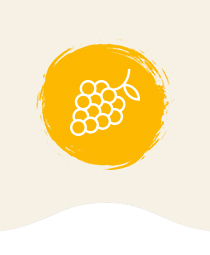
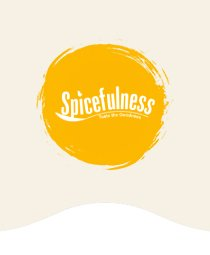
major updates

diff --git a/index.html b/index.html
@@ -6,7 +6,7 @@
 		<!-- Basic Page Needs -->
 		<meta charset="utf-8">
 		<meta http-equiv="X-UA-Compatible" content="IE=edge">
-		<title>FreshMart - Organic, Fresh Food, Farm Store HTML Template</title>
+		<title>Munnar Tea House Trivandrum</title>
 		
 		<meta name="keywords" content="Organic, Fresh Food, Farm Store">
 		<meta name="description" content="FreshMart - Organic, Fresh Food, Farm Store HTML Template">
@@ -375,8 +375,9 @@
 						<div class="row">
 							<div class="col-xs-12 col-sm-12 col-md-12 col-lg-12">
 								<div class="intro-header">
-									<h3>Welcome To FreshMart</h3>
-									<p>Lorem ipsum dolor sit amet, consectetur adipiscing elit, sed do eiusmod tempor incididunt ut labore et dolore magna aliqua. Ut enim ad minim veniam, quis nostrud exercitation ullamco laboris nisi ut aliquip ex ea commodo consequat</p>
+									<h3>Welcome To Munnar Tea House & Spicefulness</h3>
+									<p>Nestled in the misty embrace of the Western Ghats, we bring you the finest teas and spices, handpicked from the heart of nature. At Munnar Tea House and Spicefulness, we celebrate the harmony between the land and its rich flavors, delivering the essence of the mountains directly to your home.
+</p>
 								</div>
 							</div>
 							
@@ -427,7 +428,7 @@
 				<!-- Product - Deals Of The Day -->
 				<div class="section products-block deals-of-day show-hover nav-color layout-2">
 					<div class="block-title">
-						<h2 class="title">Deals of <span>The Day</span></h2>
+						<h2 class="title">Best Deals<span>For You</span></h2>
 						<div class="sub-title">Lorem ipsum dolor sit amet consectetur adipiscing elit eiusmod tempor</div>
 					</div>
 					
@@ -3067,50 +3068,9 @@
 									</div>
 								</div>
 							
-								<div class="item">
-									<img src="img/product/category-2.jpg" alt="Category 2">
-									<div class="title">Vegetable</div>
-									<div class="category-products">
-										<ul>
-											<li><a href="#">Beans & Brinjals</a></li>
-											<li><a href="#">Broccoli & Cauliflower</a></li>
-											<li><a href="#">Chilies, Garlic & Ginger</a></li>
-											<li><a href="#">Root Vegetables</a></li>
-											<li><a href="#" class="color">View All</a></li>
-										</ul>
-									</div>
-								</div>
-							
-								<div class="item">
-									<img src="img/product/category-3.jpg" alt="Category 3">
-									<div class="title">Juices</div>
-									<div class="category-products">
-										<ul>
-											<li><a href="#">Orange Juices</a></li>
-											<li><a href="#">Apple Juices</a></li>
-											<li><a href="#">Strawberry Juices</a></li>
-											<li><a href="#">Pomegranate Juices</a></li>
-											<li><a href="#" class="color">View All</a></li>
-										</ul>
-									</div>
-								</div>
-							
-								<div class="item">
-									<img src="img/product/category-4.jpg" alt="Category 4">
-									<div class="title">Tea And Coffee</div>
-									<div class="category-products">
-										<ul>
-											<li><a href="#">Organic Tea</a></li>
-											<li><a href="#">Masala Teas</a></li>
-											<li><a href="#">Flavored Tea</a></li>
-											<li><a href="#">Coffee</a></li>
-											<li><a href="#" class="color">View All</a></li>
-										</ul>
-									</div>
-								</div>
 								
 								<div class="item">
-									<img src="img/product/category-5.jpg" alt="Category 5">
+									<img src="img/product/category-2.jpg" alt="Category 5">
 									<div class="title">Bread</div>
 									<div class="category-products">
 										<ul>
@@ -3125,77 +3085,7 @@
 							</div>
 						</div>
 					</div>
-				</div>
-				
-				
-				<!-- Partners -->
-				<div class="section partners">
-					<div class="block-content">
-						<div class="container">
-							<div class="partners-wrap owl-theme owl-carousel">
-								<a href="#"><img src="img/partner-1.jpg" alt="Partner 1"></a>
-								<a href="#"><img src="img/partner-2.jpg" alt="Partner 2"></a>
-								<a href="#"><img src="img/partner-3.jpg" alt="Partner 3"></a>
-								<a href="#"><img src="img/partner-4.jpg" alt="Partner 4"></a>
-								<a href="#"><img src="img/partner-5.jpg" alt="Partner 5"></a>
-								<a href="#"><img src="img/partner-6.jpg" alt="Partner 6"></a>
-							</div>
-						</div>
-					</div>
-				</div>
-				
-				
-				<!-- Latest News -->
-				<div class="section latest-news">
-					<div class="block-title">
-						<div class="sub-title">From Our Blog</div>
-						<h2 class="title">Latest <span>News</span></h2>
-					</div>
-					
-					<div class="block-content">
-						<div class="container">
-							<div class="row">
-								<div class="col-lg-6 col-md-6 col-sm-6 col-xs-12">
-									<div class="blog-item">
-										<div class="blog-image">
-											<a href="blog-detail.html" class="zoom-effect">
-												<img src="img/blog/blog-1.jpg" alt="Blog Image">
-											</a>		
-										</div>
-										<div class="blog-info">
-											<div class="blog-time">
-												<span><i class="zmdi zmdi-comments"></i>13 comment</span>
-												<span><i class="zmdi zmdi-calendar-note"></i>20 APRIl 2017</span>
-											</div>
-											<div class="blog-title"><a href="blog-detail.html">5 Best fruits to make you fresh and healthy</a></div>
-											<div class="blog-desc">Lorem ipsum dolor sit amet, consectetuer adipiscing elit, sed diam nonummy...</div>
-											<div class="readmore"><a href="blog-detail.html">Read more</a></div>
-										</div>
-									</div>
-								</div>
-								
-								<div class="col-lg-6 col-md-6 col-sm-6 col-xs-12">
-									<div class="blog-item">
-										<div class="blog-image">
-											<a href="blog-detail.html" class="zoom-effect">
-												<img src="img/blog/blog-2.jpg" alt="Blog Image">
-											</a>
-										</div>
-										<div class="blog-info">
-											<div class="blog-time">
-												<span><i class="zmdi zmdi-comments"></i>13 comment</span>
-												<span><i class="zmdi zmdi-calendar-note"></i>20 APRIl 2017</span>
-											</div>
-											<div class="blog-title"><a href="blog-detail.html">5 Best fruits to make you fresh and healthy</a></div>
-											<div class="blog-desc">Lorem ipsum dolor sit amet, consectetuer adipiscing elit, sed diam nonummy...</div>
-											<div class="readmore"><a href="blog-detail.html">Read more</a></div>
-										</div>
-									</div>
-								</div>
-							</div>
-						</div>
-					</div>
-				</div>
+				</div>				
 			</div>
 			
 			
@@ -3208,18 +3098,14 @@
 							<div class="row">
 								<div class="col-lg-4 col-md-4 col-sm-4 col-xs-12">
 									<div class="block text">
-										<div class="block-content">
-											<a href="index.html" class="logo-footer">
-												<img src="img/logo-2.png" alt="Logo">
-											</a>
-									
+										<div class="block-content">											
 											<div class="contact">
 												<div class="item d-flex">
 													<div class="item-left">
 														<i class="zmdi zmdi-home"></i>
 													</div>
 													<div class="item-right">
-														<span>123 Suspendis matti, VST District, NY Accums, North American</span>
+														<span>Munnar Tea House<br>Spicefulness 10/653 Kalpana Colony, Kazhakootam 695582</span>
 													</div>
 												</div>
 												<div class="item d-flex">
@@ -3227,7 +3113,7 @@
 														<i class="zmdi zmdi-phone-in-talk"></i>
 													</div>
 													<div class="item-right">
-														<span>0123-456-78910<br>0987-654-32100</span>
+														<span>+91 88915 77066</span>
 													</div>
 												</div>
 												<div class="item d-flex">
@@ -3235,7 +3121,7 @@
 														<i class="zmdi zmdi-email"></i>
 													</div>
 													<div class="item-right">
-														<span><a href="mailto:support@domain.com">support@domain.com</a><br><a href="mailto:contact@domain.com">contact@domain.com</a></span>
+														<span><a href="mailto:support@domain.com">spciefulness@gmail.com</a></span>
 													</div>
 												</div>
 											</div>
@@ -3244,6 +3130,8 @@
 								</div>
 								
 								<div class="col-lg-4 col-md-4 col-sm-4 col-xs-12">
+									<img src="img/logo banner down.png" width="70%">
+									<!--
 									<div class="block instagram">
 										<h2 class="block-title">Photo Instagram</h2>
 										
@@ -3292,7 +3180,7 @@
 											</div>
 										</div>
 									</div>
-								</div>
+								</div>-->
 								<!--
 								<div class="col-lg-4 col-md-4 col-sm-4 col-xs-12">
 									<div class="block newsletter">
@@ -3324,7 +3212,7 @@
 						</div>
 					</div>
 					
-					<!-- Footer Bottom -->
+					<!-- Footer Bottom 
 					<div class="footer-bottom">
 						<div class="payment-intro">
 							<div class="container">
@@ -3368,9 +3256,9 @@
 							</div>
 						</div>
 					</div>
-				</div>
+				</div>-->
 				
-				<!-- Copyright -->
+				<!-- Copyright 
 				<div class="footer-copyright">
 					<div class="container">
 						<div class="row">
@@ -3386,7 +3274,7 @@
 							</div>
 						</div>
 					</div>
-				</div>
+				</div>-->
 			</footer>
 			
 			<!-- Newsletter Popup 
@@ -3415,18 +3303,77 @@
 				<a href="#">
 					<i class="fa fa-long-arrow-up"></i>
 				</a>
-			</div>
-			
-			<!-- Page Loader -->
+			</div><!-- 
+			    <style>
+       
+        #custom-preloader {
+            position: fixed;
+            left: 0;
+            top: 0;
+            width: 100%;
+            height: 100%;
+            background-color: white; /* You can change the background color */
+            display: flex;
+            justify-content: center;
+            align-items: center;
+            z-index: 9999;
+        }
+
+        #custom-preloader img {
+            width: 124px; /* Exact size of your GIF */
+            height: 124px;
+            object-fit: contain; /* Prevents any distortion or unwanted lines */
+            border: none; /* Ensure no borders around the GIF */
+            padding: 0; /* No extra padding */
+            margin: 0; /* No margins around GIF */
+        }
+
+        /* Main content initially hidden with 0 opacity */
+        #main-content {
+            opacity: 0;
+            transition: opacity 1s ease-in; /* 1-second fade-in transition */
+        }
+
+        /* Fade-in effect when the preloader is hidden */
+        body.page-loaded #main-content {
+            opacity: 1;
+        }
+
+        /* Hide preloader after page is loaded */
+        body.page-loaded #custom-preloader {
+            display: none;
+        }
+    </style>
+</head>
+<body>
+    Preloader 
+    <div id="custom-preloader">
+        <img id="preloader-gif" src="img/loader.gif" alt="Loading...">
+    </div>
+
+
+
+    <script>
+        // Wait until the GIF is fully loaded
+        window.addEventListener("load", function() {
+            setTimeout(function() {
+                // Hide the preloader and show content after a short delay
+                document.body.classList.add("page-loaded");
+            }, 2000); // Adjust the delay to the duration of the GIF animation
+        });
+    </script>-->
+			Page Loader 
 			<div id="page-preloader">
+				
 				<div class="page-loading">
+					<img id="preloader-gif" src="img/loader.gif" alt="Loading..." width="125px"><!--
 					<div class="dot"></div>
 					<div class="dot"></div>
 					<div class="dot"></div>
 					<div class="dot"></div>
-					<div class="dot"></div>
+					<div class="dot"></div>-->
 				</div>
-			</div>
+			</div>-->
 		</div>
 			
 		<!-- Vendor JS -->

diff --git a/product-grid-left-sidebar.html b/product-grid-left-sidebar.html
@@ -1,6 +1,18 @@
 <!DOCTYPE html>
 <html lang="zxx">
-	
+	<!--Start of Tawk.to Script-->
+<script type="text/javascript">
+var Tawk_API=Tawk_API||{}, Tawk_LoadStart=new Date();
+(function(){
+var s1=document.createElement("script"),s0=document.getElementsByTagName("script")[0];
+s1.async=true;
+s1.src='https://embed.tawk.to/671865de2480f5b4f591dcee/1iarkrrq0';
+s1.charset='UTF-8';
+s1.setAttribute('crossorigin','*');
+s0.parentNode.insertBefore(s1,s0);
+})();
+</script>
+<!--End of Tawk.to Script-->
 
 <head>
 		<!-- Basic Page Needs -->
@@ -170,7 +182,7 @@
 													<tr>
 														<td class="product-image">
 															<a href="product-detail-left-sidebar.html">
-																<img src="img/product/7.jpg" alt="Product">
+																<img src="img/product/1.png" alt="Product">
 															</a>
 														</td>
 														<td>
